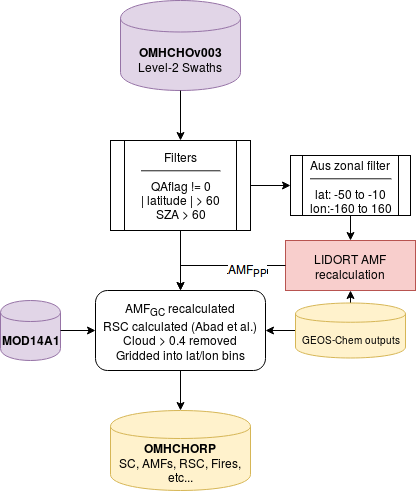
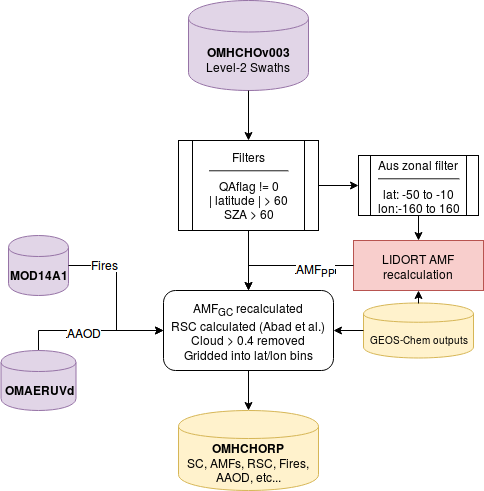
Some OMI stuff taken from hcho -> modelling

diff --git a/Chapters/Modelling.tex b/Chapters/Modelling.tex
@@ -12,7 +12,7 @@
   They show how models can be used to improve measurements, estimate concentrations in regions not sampled, and allow analysis of other processes which involve ozone (such as radiation).
 
 
-\section{Data}
+\section{Datasets}
 \label{Model:Datasets}
 
   %TODO: Combine these sections
@@ -60,26 +60,69 @@
     
     \mypic{Figures/OMI_link/GC_vs_Campaigns_20050131-20050601.png}{Comparison between GEOS-Chem HCHO concentrations in the gridsquare containing Sydney for the duration of the SPS 1 and 2 campaigns}{\label{Model:Datasets:SPS:fig_GC_comparison}}
   
-  
-  \subsection{OMI NO2}
-    NO$_2$ measured by OMI is used to check whether NO$_2$ is well represented by GEOS-Chem. 
-    OMNO2d is a gridded daily level three product with good satellite pixels averaged into 0.25x0.25$^{\circ}$ horizontally resolved bins.
-    See section \ref{Model:Analysis:NOx} for the comparison between this product and GEOS-Chem calculations.
-  
-  \subsection{OMI HCHO}
-    \label{Model:Datasets:OMHCHO}
-    TODO Description of OMI dataset.
+  \subsection{Aura}
+    \label{Model:Datasets:Aura}
     
-    When reading OMHCHO level 2 swath files, several factors are taken into account in order to filter uncertain and erroneous pixels.
-    The process is outlined in figure  \ref{Model:Datasets:OMHCHO:fig_read_omhcho} for a single day.
-    First all the pixels for are read, filtered by the QA flag, solar zenith angle (SZA) and latitude (\cite{Palmer2001}).
-    Next a subset covering Australia and most of the zonal band has its AMF recalculated with by fortran code written by Paul Palmer, Randal Martin, and Luke Surl (AMF$_{PP}$).
-    Then a reference sector correction (RSC) is made (following \cite{Abad2016}), and a new AMF using a recalculated shape factor is calculated (AMF$_{GC}$).
-    Finally the pixels are binned into a dataset I've called OMHCHORP. 
+    One satellite is NASA's Earth Observing System's ``Aura'', which provides several useful datasets, often called products.
+    Aura orbits the earth in a polar sun-synchronous pattern, circling the earth on a plane coincident with the sun and the poles.
+    OMI measurements are used to map several atmospheric trace gases, including NO$_2$, SO$_2$, BrO, HCHO, O$_3$, and aerosols.
+    OMI measurements occur from right to left on a band covering 115$^{\circ}$, resulting in swaths of around 2600~km, with pixel sizes from 13x24~km$^2$ at nadir to 26x135~km$^2$ at the swath edges \citep{Abad2015}.
+    The swaths cover Earth daily, although half of these are at night time and contain no useful near-UV/Visible information.
     
-    \mypic{Figures/Flow_Reading_OMHCHO.png}{Flow diagram showing how OMHCHO level two swath data is read, processed, and gridded in this thesis}{\label{Model:Datasets:OMHCHO:fig_read_omhcho}}
+    Aura houses the Ozone Monitoring Instrument (OMI), a near-UV/Visible Charged Coupled Device (CCD) spectrometer.
+    From here on the word pixel is used to describe one data point retrieved by OMI, each pixel includes a latitude and longitude within OMI's data product.
+    OMI spectra are used in several products used in this thesis, including OMNO2d, OMHCHO, and OMAERUVd.
     
-    Recalculated OMI formaldehyde columns are used as a basis for estimating isoprene emissions in Chapter \ref{BioIsop}.
+    \subsubsection{OMNO2}
+      \label{Model:Datasets:Aura:omno2d}
+      NO$_2$ measured by OMI is used to check whether NO$_2$ is well represented by GEOS-Chem. 
+      OMNO2d is a gridded daily level three product with good satellite pixels averaged into 0.25x0.25$^{\circ}$ horizontally resolved bins.
+      See section \ref{Model:Analysis:NOx} for the comparison between this product and GEOS-Chem calculations.
+    
+    \subsubsection{OMI HCHO}
+      \label{Model:Datasets:OMHCHO}
+      
+      % How omhcho is produced
+      Atmospheric HCHO can be measured using Differential Optical Absorption Spectroscopy (DOAS), as long as trace gases with similar features near the same wavelength are accounted for.
+      A DOAS fit determines the total column amount of a trace gas along the path that the instrument views.
+      This uses the Beer-Lambert law where radiance is reduced as light travels through a medium.
+      In version 3.0 of the OMI satellite data retrievals, HCHO is determined using the spectral window $328.5$~nm$ - 356.5$~nm. 
+      The algorithm used is based on direct fitting of radiances and irradiances.
+      An OMI radiance measurement over the remote Pacific ocean is used instead of an irradiance measurement.
+      This means that the slant columns ($\Omega_S$) are actually the difference with respect to the radiance reference column ($\Omega_{S_0}$).
+      The full method details for slant column retrieval by OMI are outlined in section \ref{SuppNotes:Satellite:OMI_BOAS}.
+      
+      % Filters applied when reading
+      When reading OMHCHO level 2 swath files, several factors are taken into account in order to filter uncertain and erroneous pixels.
+      The process is outlined in figure  \ref{Model:Datasets:OMHCHO:fig_read_omhcho} for a single day.
+      First all the pixels for are read, filtered by the QA flag, solar zenith angle (SZA) and latitude (\cite{Palmer2001}).
+      Next a subset covering Australia and most of the zonal band has its AMF recalculated with by fortran code written by Paul Palmer, Randal Martin, and Luke Surl (AMF$_{PP}$).
+      Then a reference sector correction (RSC) is made (following \cite{Abad2016}), and a new AMF using a recalculated shape factor is calculated (AMF$_{GC}$).
+      Finally the pixels are binned into a dataset I've called OMHCHORP. 
+      
+      \mypic{Figures/Flow_Reading_OMHCHO.png}{Flow diagram showing how OMHCHO level two swath data is read, processed, and gridded in this thesis}{\label{Model:Datasets:OMHCHO:fig_read_omhcho}}
+      
+      Recalculated OMI formaldehyde columns are used as a basis for estimating isoprene emissions in Chapter \ref{BioIsop}.
+    
+    \subsubsection{OMAERUVd}
+      
+      % Optical depth description
+      Optical Depth, also called optical thickness, is the natural logarithm of the ratio of incident radiant power to transmitted radiant power through a material.
+      In the atmosphere we are interested in the optical depth of various chemical species, and we use incoming solar radiation to determine this.
+      The difference between solar radiation at the top of the atmosphere and the Earth's surface defines the atmospheric optical depth along the path of observation.
+      \begin{equation*}
+        \tau = \ln{\frac{\phi_e^i}{\phi_e^t}}
+      \end{equation*}
+      where $\phi_e^i$ is radiant flux seen at the earth surface, $\phi_e^t$ is the solar radiant flux which arrives at the top of the atmosphere.
+      In the atmosphere, optical depth can be due to several factors including scattering, chemical absorbance, and aerosols.
+      
+      %TODO: OMAERUVd brief description
+      
+      % How I read the AAOD
+      Gridded smoke AAOD is read from OMAERUVd at 1x1\degr resolution daily, and mapped to higher resolution using the nearest value for each gridsquare, before being saved along with the MOD14A1d fire product as seen in Figure \ref{Model:Datasets:OMHCHO:fig_read_omhcho}.
+      I use the AAOD at 500~nm wavelength, which should be sufficiently blocked by fire smoke plumes.
+      This daily AAOD is used to mask fire smoke plume influence, by masking gridsquares with higher than TODO AAOD values.
+      
   
   \subsection{Drought Index}
     The S Precipitation Evapotranspiration Index (SPEI) is a measure of drought using various parameters such as TODO. (\cite{Wang2017}).
@@ -440,8 +483,11 @@
     From $ \tau_i = \int \rho_i \beta_i ds $ we get:
     $$ I = I_0 \exp {\left( \Sigma_i \int \rho_i \beta_i ds \right) } $$
     Where i represents a chemical species index, $\rho$ is a species density(molecules per cm$^3$), $\beta$ is the scattering and absorption cross section area (cm$^2$), and the integral over ds represents integration over the path from light source to instrument.
-    
-    Generally satellites use a DOAS based technique, with chemical transport and radiative transfer models used to transform the non-vertical light path interference into vertical column amounts.
+    $\tau$ can be described using the attenuation cross section (the attenuation coefficient divided by its number density), with the following relation:
+    \begin{equation*}
+      \tau = \int_0^l \alpha(z)\eta(z)\mathrm{d}z
+    \end{equation*}
+    where $\alpha(z)$ and $\eta(z)$ represent absorption cross section in m$^2$ molecule$^{-1}$, and number density in molecules m$^{-3}$ respectively, and l represents the length of the medium (in this case the path through which the light travels). 
     
     Multiple axis DOAS (MAX-DOAS) is a remote sensing technique which uses several DOAS measurements over different viewing paths.
     In these retrievals, the measurements of light absorption are performed over several elevations in order to add some vertical resolution to the measurement of trace gas concentrations.
@@ -458,6 +504,7 @@
     
   \subsection{Satellites}
   \label{Model:Meas:sat}
+    Generally satellites use a DOAS based technique, with chemical transport and radiative transfer models used to transform the non-vertical light path interference into vertical column amounts.
     Measurements done using DOAS often apply a forward radiative transfer model (RTM) such as LIDORT in order to determine a trace gas's radiative properties at various altitudes.
     The forward RTM used for satellite data products also involves functions representing extinction from Mie and Rayleigh scattering, and the efficiency of these on intensities from the trace gas under inspection, as well as accounting for various atmospheric parameters which may or may not be estimated (e.g. albedo).
     
@@ -470,6 +517,13 @@
     An AOD of under 0.05 indicates a clear sky, while values of 1 or greater indicate increasingly hazy conditions.
     This is important in order to determine where measurements from other instruments may be compromised by high interference.
     Satellite measured AOD requires validation by more accurate ground based instruments like those of AERONET which uses more than 200 sun photometers scattered globally.
+    
+    Rayleigh and Mie scattering describe two kinds of particle effects on radiation passing through a medium. 
+    Rayleigh scattering is heavily wavelength dependent, and is the dominant form of scattering from particles up to roughly one tenth of the wavelength of the light.
+    Mie scattering is more dominant from larger particles, and has less wavelength dependence.
+    These scattering functions are described in detail at (TODO:section? reference?).
+    The effects of scattering are what gives us the information about substances in the atmosphere.
+    The different particles and gases in the air have various properties which affect remote sensing devices such as a satellite, making them more or less sensitive at certain altitudes for detecting various species \citep[e.g.]{Martin2002}.
     
     Soon even more HCHO data will be available in the form of geostationary satellite measurements (\cite{Kwon2017}).
     \cite{Kwon2017} examine simulated geostationary measurements against GEOS-Chem column simulations to determine the most important instrument sensitivities.

diff --git a/Chapters/HCHO.tex b/Chapters/HCHO.tex
@@ -11,25 +11,7 @@
 \section{Satellite HCHO measurements}
 \label{ch_HCHO:sec:satelliteHCHO}
   \subsection{Satellite Retrievals}
-    Satellites remotely sense atmospheric trace gases through irradiance measurements of solar light which has reflected off the earth's surface. 
-    These irradiances are affected by gases which exist along the reflected path of light between the detector, earth, and sun. 
-    The irradiance is then used to estimate how much of a particular gas exists along this path, which gives us an estimate which is called a slant column (SC).
-    The retrieved SC of a particular gas (or species) can be transformed into a vertical column (VC) by scaling the path length in conjunction with accounting for the trace gas' light scattering properties.
-    The scaling coefficient created to transform from SC to VC is called the Air Mass Factor (AMF).
-
-    One satellite is NASA's Earth Observing System's (EOS) Aura, which houses the Ozone Monitoring Instrument (OMI), a near-UV/Visible Charged Coupled Device (CCD) spectrometer.
-    Aura orbits the earth in a polar sun-synchronous pattern, circling the earth on a plane coincident with the sun and the poles.
-    OMI measurements are used to map several atmospheric trace gases, including NO$_2$, SO$_2$, BrO, HCHO, O$_3$, and aerosols.
-    OMI measurements occur from right to left on a band covering 115$^{\circ}$, resulting in swaths of around 2600~km, with pixel sizes from 13x24~km$^2$ at nadir to 26x135~km$^2$ at the swath edges \citep{Abad2015}.
-    The swaths cover Earth daily, although half of these are at night time and contain no useful near-UV/Visible information.
-    From here on the word pixel is used to describe one data point retrieved by OMI, each pixel includes a latitude and longitude within OMI's data product.
     
-    Atmospheric HCHO can be measured using Differential Optical Absorption Spectroscopy (DOAS), as long as trace gases with similar features near the same wavelength are accounted for.
-    OMI fits HCHO slant column densities (SCD) along a solar backscatter path within the spectral window of 327.5-356.5~nm \citep{Chance2000}.
-    TODO: Go through Lee2005 or Volkamer2005 and detail the DOAS Retrieval of HCHO.
-    A DOAS fit determines the total column amount of a trace gas along the path that the instrument views.
-    This uses the Beer-Lambert law where radiance is reduced as light travels through a medium.
-    The full method details for slant column retrieval by OMI are outlined in section \ref{ch_HCHO:sec:OMI_BOAS}.
     
     Uncertainty in a single pixel for OMI is quite high, roughly the same magnitude as HCHO background levels.
     Figure \ref{ch_HCHO:fig:eightDayUncertainty} shows uncertainty over Australia after one and eight days of averaging at 0.25$^{\circ}$ longitude by 0.3125${\circ}$ latitude.
@@ -48,81 +30,6 @@
       }
       \label{ch_HCHO:fig:eightDayUncertainty}
     \end{figure}
-    
-  \subsection{OMI Algorithm BOAS}
-    \label{ch_HCHO:sec:OMI_BOAS}
-    The following information comes from the OMHCHO dataset documentation at \citet{Kurosu2014} and \citet{Chance2002}.
-    The method of HCHO total column retrieval depends heavily on measured solar radiation.
-    Radiance is directional radiant flux, expressed in Watts per square metre per steradian (a unit of angle used in three dimensional geometry).
-    Irradiance is radiant flux received by a surface, expressed in watts per square metre.
-    An OMI granule is the sunlit portion of an orbit (one day).
-    
-    The BOAS algorithm used by OMI is as follows.
-    Slant column abundance can be determined by fitting measured radiance (I) at particular wavelengths ($\lambda$), using modelled absorption cross sections ($\sigma$), effective albedo (A) including Rayleigh scattering, a correction for the Ring effect (c$_R\sigma_R$), and a closing polynomial (coefficents c$_0$-c$_3$).
-    \begin{equation}
-      \label{ch_HCHO:eqn:BOAS_HCHO}
-      I(\lambda)  = A I_0 \exp {\left( - \Sigma_i S_i \sigma_i \right) } + c_R\sigma_R + c_0 + c_1(\sigma-\bar{\sigma}) + c_2(\sigma - \bar{\sigma})^2 + c_3(\sigma - \bar{\sigma})^3 
-    \end{equation}
-    
-    For HCHO, absorption cross sections and number densities for interfering gases are determined beforehand.
-    This is due to HCHO being so optically thin and interferences must be accounted for precisely \citep{Chance2002}.
-    
-    In version 3.0 of the OMI satellite data retrievals, HCHO is determined using the spectral window $328.5$~nm$ - 356.5$~nm. 
-    The algorithm used is based on direct fitting of radiances and irradiances.
-    An OMI radiance measurement over the remote Pacific ocean is used instead of an irradiance measurement.
-    This means that the slant columns ($\Omega_S$) are actually the difference with respect to the radiance reference column ($\Omega_{S_0}$).
-    
-    The model that is fitted to the measurements is made up of the radiance reference attenuated by HCHO contributions, inelastic (rotational Raman) scattering, and interferences from ozone, NO$_2$, BrO, and the O$_2$-O$_2$ collision complex.
-    It includes additive and multiplicative closure polynomials and parameters for spectral shift and squeeze, and an undersampling correction and ``common mode'' spectrum.
-    The spectral fitting results in HCHO slant columns, which are converted to vertical columns through a look-up table of AMFs (see section \ref{ch_HCHO:sec:satelliteHCHO:AMFs})
-    Undersampling is a problem caused by the wavelength resolution of the instrument.
-    Nyquist theorem requires that the sampling rate be at least twice the highest frequency of the signal in order to uniquely reconstruct it, otherwise the signal is undersampled (contains errors).
-    
-    There are three main stages in the algorithm:
-    \begin{enumerate}
-     \item Radiance wavelength calibration, finding the optimum wavelength registration for a representative swath of radiance measurements, and determination of a common wavelength grid for auxiliary data (molectular reference cross sections, etc.).
-     \item On-line common mode spectrum calculation from residual fits of the central portion of the orbit. 
-     This accounts for systematic features not considered in the semi-empirical model.
-     \item Nonlinear least-squres fitting of all swath lines in the OMI granule. 
-     Fitting is performed individually for the 60 cross-track pixels in each swath line.
-    \end{enumerate}
-    
-    Cross-track striping is systematically higher or lower column values along a whole track.
-    Several methods are used to reduce cross-track striping of the HCHO columns.
-    These include soft calibration, which is the use of a daily radiance reference, and outlier screening in the fitting residuals.
-    
-  \subsection{Optical Depth (\texorpdfstring{$\tau$)}{t}}
-    \label{ch_HCHO:sec:satelliteHCHO:OpticalDepth}
-    
-    Optical Depth, also called optical thickness, is the natural logarithm of the ratio of incident radiant power to transmitted radiant power through a material.
-    In the atmosphere we are interested in the optical depth of various chemical species, and we use incoming solar radiation to determine this.
-    The difference between solar radiation at the top of the atmosphere and the Earth's surface defines the atmospheric optical depth along the path of observation.
-    \begin{equation*}
-      \tau = \ln{\frac{\phi_e^i}{\phi_e^t}}
-    \end{equation*}
-    where $\phi_e^i$ is radiant flux seen at the earth surface, $\phi_e^t$ is the solar radiant flux which arrives at the top of the atmosphere.
-    In the atmosphere, optical depth can be due to several factors including scattering, chemical absorbance, and aerosols.
-  
-  \subsection{Scattering}
-    \label{ch_HCHO:sec:satelliteHCHO:scattering}
-    Rayleigh and Mie scattering describe two kinds of particle effects on radiation passing through a medium. 
-    Rayleigh scattering is heavily wavelength dependent, and is the dominant form of scattering from particles up to roughly one tenth of the wavelength of the light.
-    Mie scattering is more dominant from larger particles, and has less wavelength dependence. These scattering functions are described in detail at (TODO:section? reference?).
-    
-    The effects of scattering are what gives us the information about substances in the atmosphere.
-    The different particals and gases in the air have various properties which affect remote sensing devices such as a satellite, making them more or less sensitive at certain altitudes for detecting various species \citep[e.g.]{Martin2002}.
-    
-    
-  \subsection{Absorption cross section and number density}
-    \label{ch_HCHO:sec:satelliteHCHO:crosssection}
-    TODO: Fill in this section, describe cross sections.
-    
-    
-    $\tau$ can be described using the attenuation cross section (the attenuation coefficient divided by its number density), with the following relation:
-    \begin{equation*}
-      \tau = \int_0^l \alpha(z)\eta(z)\mathrm{d}z
-    \end{equation*}
-    where $\alpha(z)$ and $\eta(z)$ represent absorption cross section in m$^2$ molecule$^{-1}$, and number density in molecules m$^{-3}$ respectively, and l represents the length of the path the light is travelling through. 
   
   
   \subsection{Air Mass Factors}

diff --git a/Appendices/SpareNotes.tex b/Appendices/SpareNotes.tex
@@ -1,5 +1,6 @@
 
 \chapter{Supplementary Notes}
+  \label{SuppNotes}
   
   \section{Chemistry}
     
@@ -172,3 +173,47 @@
       \end{tabular}
       \label{BioIsop:table:CAABAMECCA_Scenarios}
     \end{table}
+    
+\section{Satellite Stuff}
+  \label{SuppNotes:Satellite}
+  \subsection{OMI Algorithm BOAS}
+    \label{SuppNotes:Satellite:OMI_BOAS}
+    The following information comes from the OMHCHO dataset documentation at \citet{Kurosu2014} and \citet{Chance2002}.
+    The method of HCHO total column retrieval depends heavily on measured solar radiation.
+    Radiance is directional radiant flux, expressed in Watts per square metre per steradian (a unit of angle used in three dimensional geometry).
+    Irradiance is radiant flux received by a surface, expressed in watts per square metre.
+    An OMI granule is the sunlit portion of an orbit (one day).
+    
+    The BOAS algorithm used by OMI is as follows.
+    Slant column abundance can be determined by fitting measured radiance (I) at particular wavelengths ($\lambda$), using modelled absorption cross sections ($\sigma$), effective albedo (A) including Rayleigh scattering, a correction for the Ring effect (c$_R\sigma_R$), and a closing polynomial (coefficents c$_0$-c$_3$).
+    \begin{equation}
+    \label{ch_HCHO:eqn:BOAS_HCHO}
+    I(\lambda)  = A I_0 \exp {\left( - \Sigma_i S_i \sigma_i \right) } + c_R\sigma_R + c_0 + c_1(\sigma-\bar{\sigma}) + c_2(\sigma - \bar{\sigma})^2 + c_3(\sigma - \bar{\sigma})^3 
+    \end{equation}
+    
+    For HCHO, absorption cross sections and number densities for interfering gases are determined beforehand.
+    This is due to HCHO being so optically thin and interferences must be accounted for precisely \citep{Chance2002}.
+    
+    In version 3.0 of the OMI satellite data retrievals, HCHO is determined using the spectral window $328.5$~nm$ - 356.5$~nm. 
+    The algorithm used is based on direct fitting of radiances and irradiances.
+    An OMI radiance measurement over the remote Pacific ocean is used instead of an irradiance measurement.
+    This means that the slant columns ($\Omega_S$) are actually the difference with respect to the radiance reference column ($\Omega_{S_0}$).
+    
+    The model that is fitted to the measurements is made up of the radiance reference attenuated by HCHO contributions, inelastic (rotational Raman) scattering, and interferences from ozone, NO$_2$, BrO, and the O$_2$-O$_2$ collision complex.
+    It includes additive and multiplicative closure polynomials and parameters for spectral shift and squeeze, and an undersampling correction and ``common mode'' spectrum.
+    The spectral fitting results in HCHO slant columns, which are converted to vertical columns through a look-up table of AMFs (see section \ref{ch_HCHO:sec:satelliteHCHO:AMFs})
+    Undersampling is a problem caused by the wavelength resolution of the instrument.
+    Nyquist theorem requires that the sampling rate be at least twice the highest frequency of the signal in order to uniquely reconstruct it, otherwise the signal is undersampled (contains errors).
+    
+    There are three main stages in the algorithm:
+    \begin{enumerate}
+      \item Radiance wavelength calibration, finding the optimum wavelength registration for a representative swath of radiance measurements, and determination of a common wavelength grid for auxiliary data (molectular reference cross sections, etc.).
+      \item On-line common mode spectrum calculation from residual fits of the central portion of the orbit. 
+      This accounts for systematic features not considered in the semi-empirical model.
+      \item Nonlinear least-squres fitting of all swath lines in the OMI granule. 
+      Fitting is performed individually for the 60 cross-track pixels in each swath line.
+    \end{enumerate}
+    
+    Cross-track striping is systematically higher or lower column values along a whole track.
+    Several methods are used to reduce cross-track striping of the HCHO columns.
+    These include soft calibration, which is the use of a daily radiance reference, and outlier screening in the fitting residuals.

diff --git a/Chapters/Introduction.tex b/Chapters/Introduction.tex
@@ -570,10 +570,15 @@
     Titration for the different calibration solutions could not be resolved, which may account for absolute offsets up to 30\%.
     These differences and non-uniformities between measurements (even among identical instruments) are part of the reason HCHO does not have a consistent network for global measurements like those for GHGs or Ozone \citep{FortemsCheiney2012}.
   
-    
-  
     \subsubsection{Satellite measurements}
       \label{LR:HCHO:Sat}
+      
+      % How satellites give us Vertical Columns and what is AMF
+      Satellites remotely sense atmospheric trace gases through irradiance measurements of solar light which has reflected off the earth's surface. 
+      These irradiances are affected by gases which exist along the reflected path of light between the detector, earth, and sun. 
+      The irradiance is then used to estimate how much of a particular gas exists along this path, which gives us an estimate which is called a slant column (SC).
+      The retrieved SC of a particular gas (or species) can be transformed into a vertical column (VC) by scaling the path length in conjunction with accounting for the trace gas' light scattering properties.
+      The scaling coefficient created to transform from SC to VC is called the Air Mass Factor (AMF).
       
       Several satellites provide long term trace gas observations with near complete global coverage, including the ERS-2 launched in April 1995 which houses the GOME ultraviolet and visible (UV-Vis) spectrometer, the AURA launched in July 2004 which houses the OMI UV-Vis spectrometer, the MetOp-A and B launched in October 2006 and September 2012 respectively both housing a GOME-2 UV-Vis spectrometer.
       These satellites are on Low Earth Orbit (LEO) trajectories and overpass any area up to once per day.
